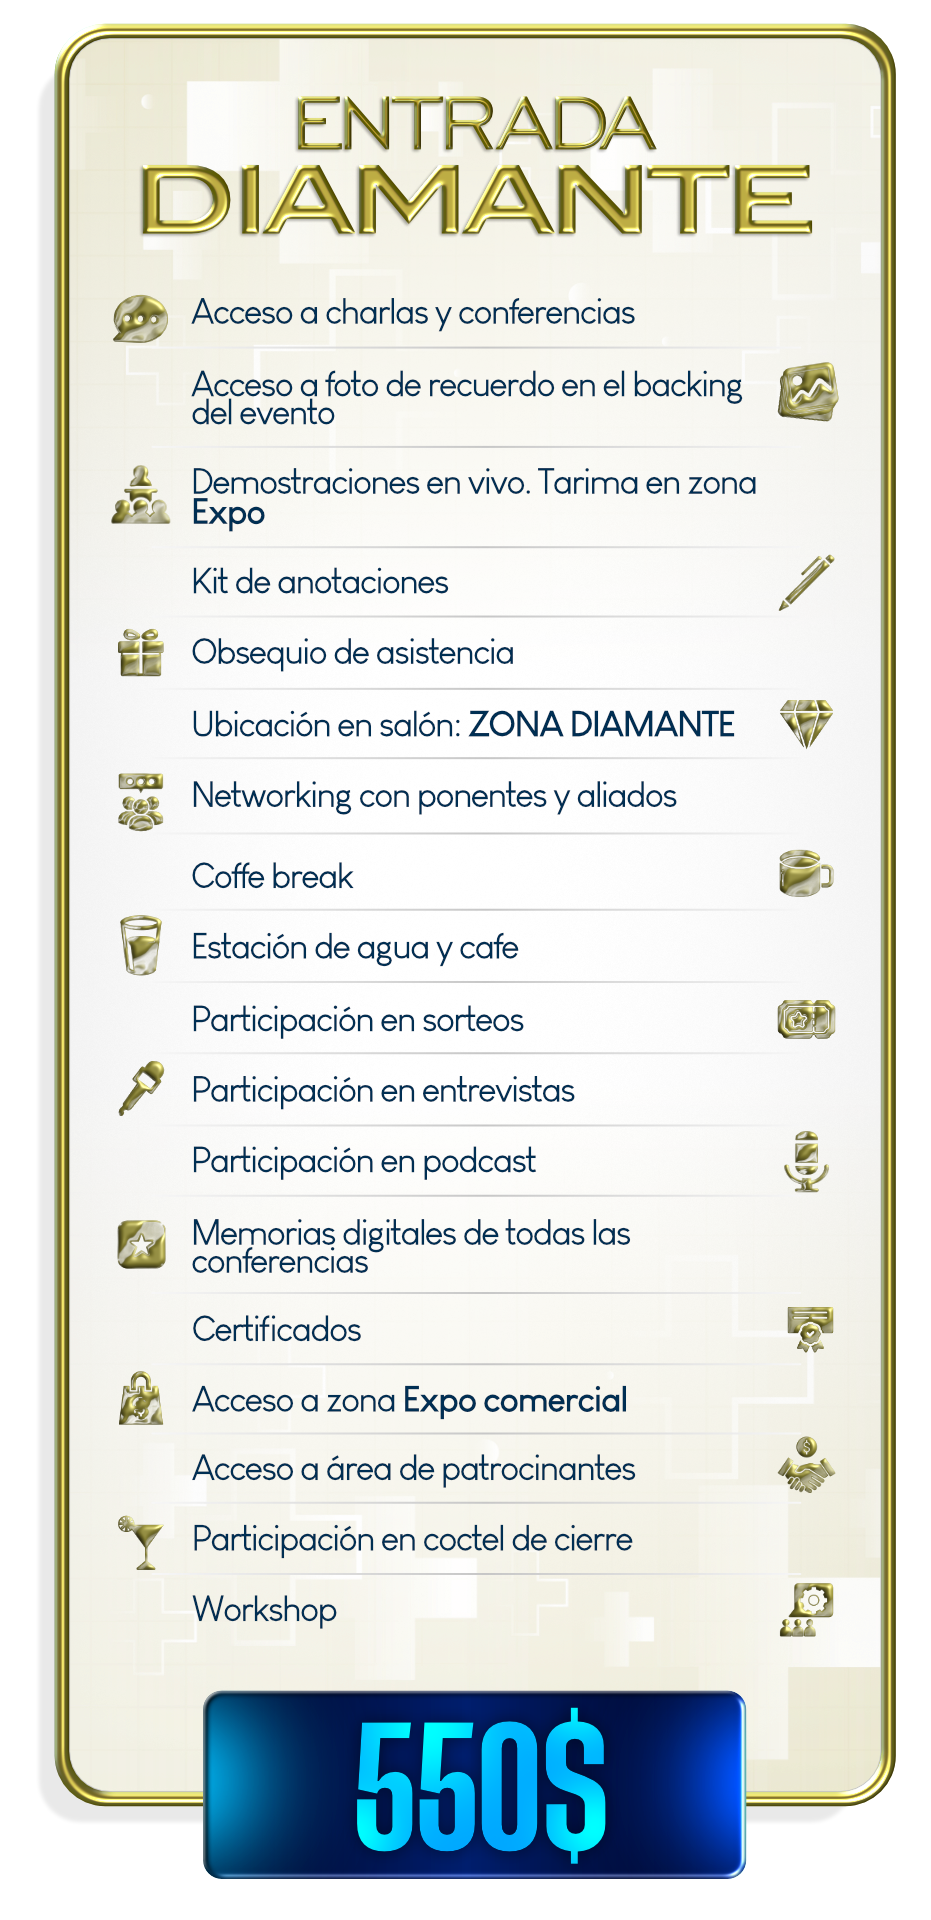
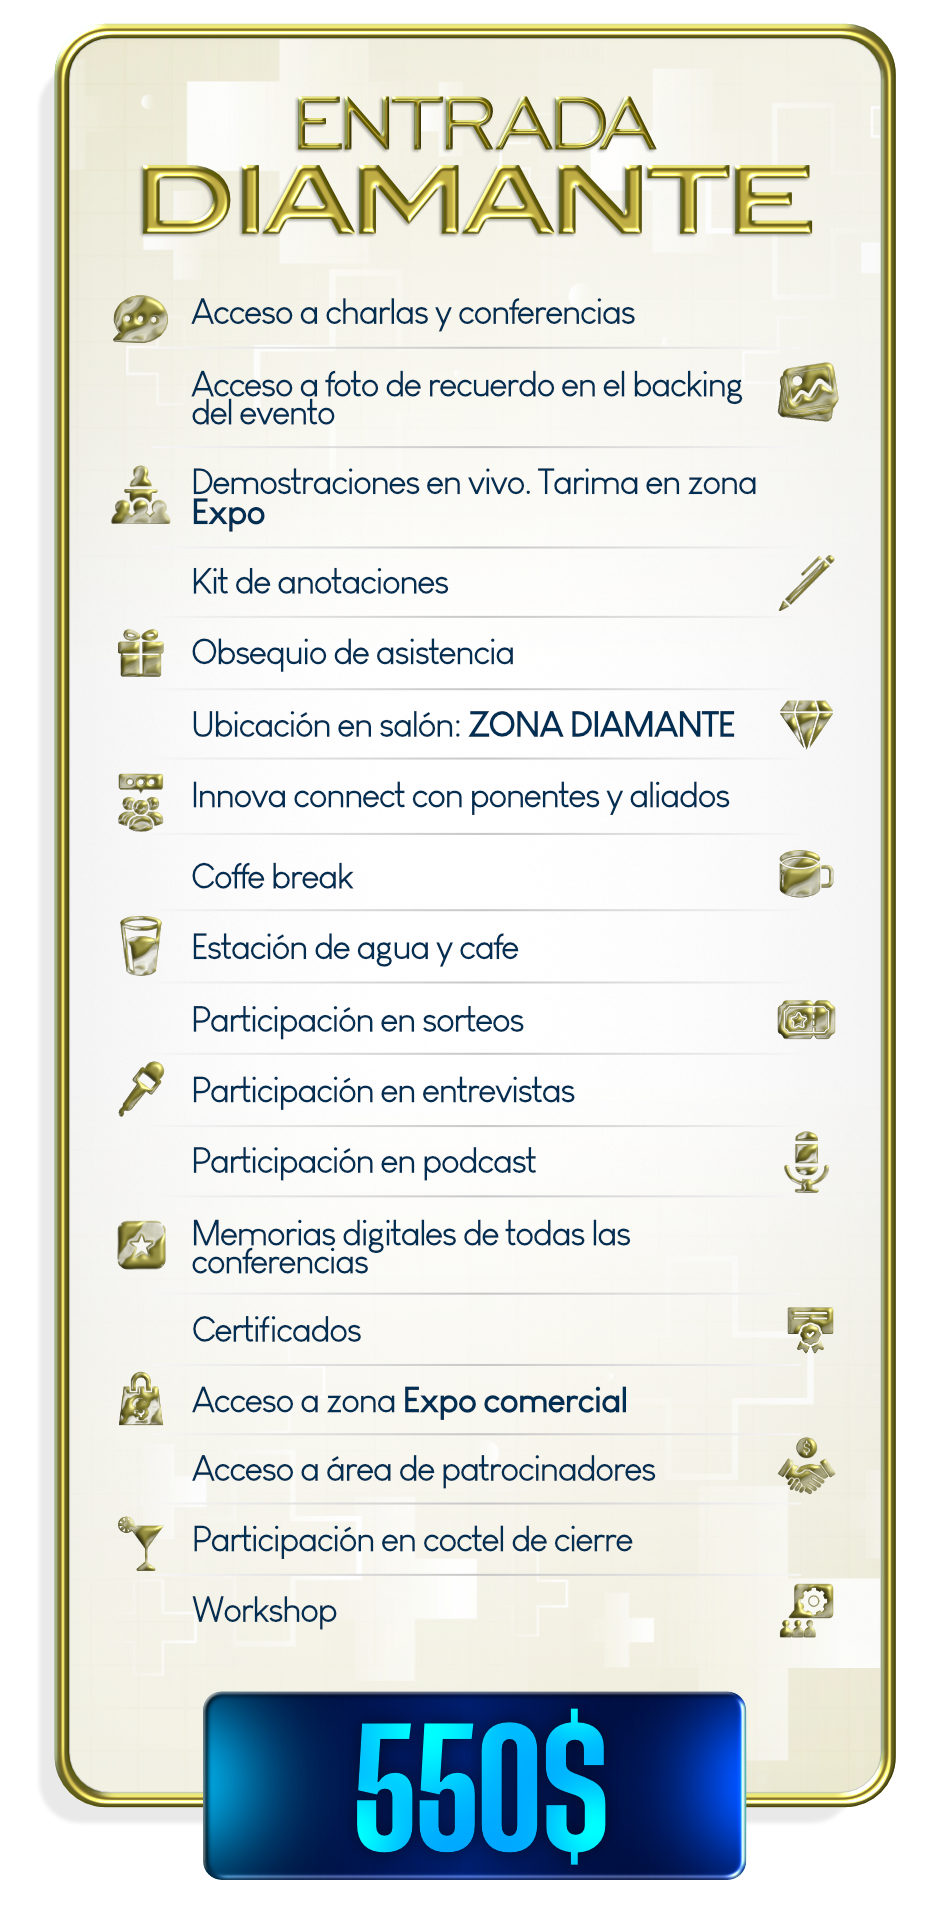
feat: implement Stands page and update entry assets to PNG format

Changed region(s): [[0.218, 0.4062, 0.7787, 0.4375], [0.623, 0.75, 0.6853, 0.7812]]

diff --git a/src/pages/Stands.tsx b/src/pages/Stands.tsx
@@ -1,0 +1,120 @@
+import '../App.css'
+import { useReveal } from '../hooks/useReveal'
+
+import fondoImg from '../assets/elementos graficos/fondo.webp'
+import queEsInnova from '../assets/stands/que es innova.png'
+import caracteristicasIconos from '../assets/entradas/caracteristicas iconos.webp'
+import ellosYaConfiaron from '../assets/stands/ellos ya confiaron.png'
+import stand1 from '../assets/stands/stand 1.png'
+import stand2 from '../assets/stands/stands 2.png'
+import stand3 from '../assets/stands/stand 3.png'
+
+function Stands() {
+  useReveal()
+
+  return (
+    <div className="page" style={{ backgroundImage: `url(${fondoImg})` }}>
+      <div className="page-inner" style={{ minHeight: '100vh', justifyContent: 'center' }}>
+
+        <img
+          src={queEsInnova}
+          alt="¿Qué es Innova?"
+          className="reveal"
+          data-delay="0"
+          style={{
+            width: '100%',
+            maxWidth: '400px',
+            height: 'auto',
+            display: 'block',
+            objectFit: 'contain',
+            marginBottom: '2rem',
+          }}
+          loading="lazy"
+        />
+
+        <img
+          src={caracteristicasIconos}
+          alt="Características"
+          className="reveal"
+          data-delay="80"
+          style={{
+            width: '100%',
+            maxWidth: '400px',
+            height: 'auto',
+            display: 'block',
+            objectFit: 'contain',
+            marginBottom: '2rem',
+          }}
+          loading="lazy"
+        />
+
+        <img
+          src={ellosYaConfiaron}
+          alt="Ellos ya confiaron"
+          className="reveal"
+          data-delay="80"
+          style={{
+            width: '100%',
+            maxWidth: '400px',
+            height: 'auto',
+            display: 'block',
+            objectFit: 'contain',
+            marginBottom: '2rem',
+          }}
+          loading="lazy"
+        />
+
+        <img
+          src={stand1}
+          alt="Stand 1"
+          className="reveal"
+          data-delay="0"
+          style={{
+            width: '100%',
+            maxWidth: '400px',
+            height: 'auto',
+            display: 'block',
+            objectFit: 'contain',
+            marginBottom: '2rem',
+          }}
+          loading="lazy"
+        />
+
+        <img
+          src={stand2}
+          alt="Stand 2"
+          className="reveal"
+          data-delay="80"
+          style={{
+            width: '100%',
+            maxWidth: '400px',
+            height: 'auto',
+            display: 'block',
+            objectFit: 'contain',
+            marginBottom: '2rem',
+          }}
+          loading="lazy"
+        />
+
+        <img
+          src={stand3}
+          alt="Stand 3"
+          className="reveal"
+          data-delay="160"
+          style={{
+            width: '100%',
+            maxWidth: '400px',
+            height: 'auto',
+            display: 'block',
+            objectFit: 'contain',
+            marginBottom: '2rem',
+          }}
+          loading="lazy"
+        />
+
+      </div>
+    </div>
+  )
+}
+
+export default Stands

diff --git a/src/pages/Entradas.tsx b/src/pages/Entradas.tsx
@@ -6,9 +6,9 @@ import tituloImg from '../assets/entradas/titulo entradas.webp'
 import caracteristicasImg from '../assets/entradas/caracteristicas iconos.webp'
 import ponentesImg from '../assets/entradas/ponentes.webp'
 import adquiereImg from '../assets/entradas/adquiere tu entrada.webp'
-import entradaExpoferiaImg from '../assets/entradas/Entrada expoferia.webp'
-import entradaVipImg from '../assets/entradas/Entrada vip.webp'
-import entradaDiamanteImg from '../assets/entradas/Entrada diamante.webp'
+import entradaExpoferiaImg from '../assets/entradas/Entrada expo feria.png'
+import entradaVipImg from '../assets/entradas/Entrada vip.png'
+import entradaDiamanteImg from '../assets/entradas/Entrada diamante.png'
 import quienParticipa1 from '../assets/entradas/quien participa 1.webp'
 import quienParticipa2 from '../assets/entradas/quien participa 2.webp'
 

diff --git a/src/App.tsx b/src/App.tsx
@@ -1,6 +1,7 @@
 import { BrowserRouter, Routes, Route } from 'react-router-dom'
 import Home from './pages/Home'
 import Entradas from './pages/Entradas'
+import Stands from './pages/Stands'
 
 function App() {
   return (
@@ -8,6 +9,7 @@ function App() {
       <Routes>
         <Route path="/" element={<Home />} />
         <Route path="/entradas" element={<Entradas />} />
+        <Route path="/stands" element={<Stands />} />
       </Routes>
     </BrowserRouter>
   )
